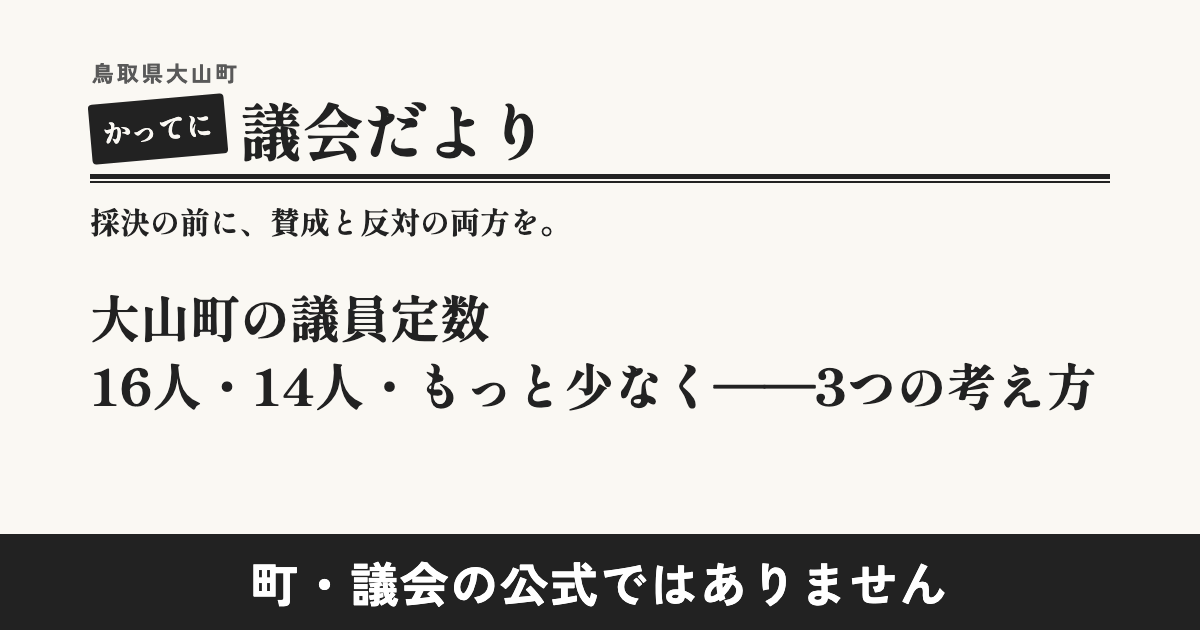
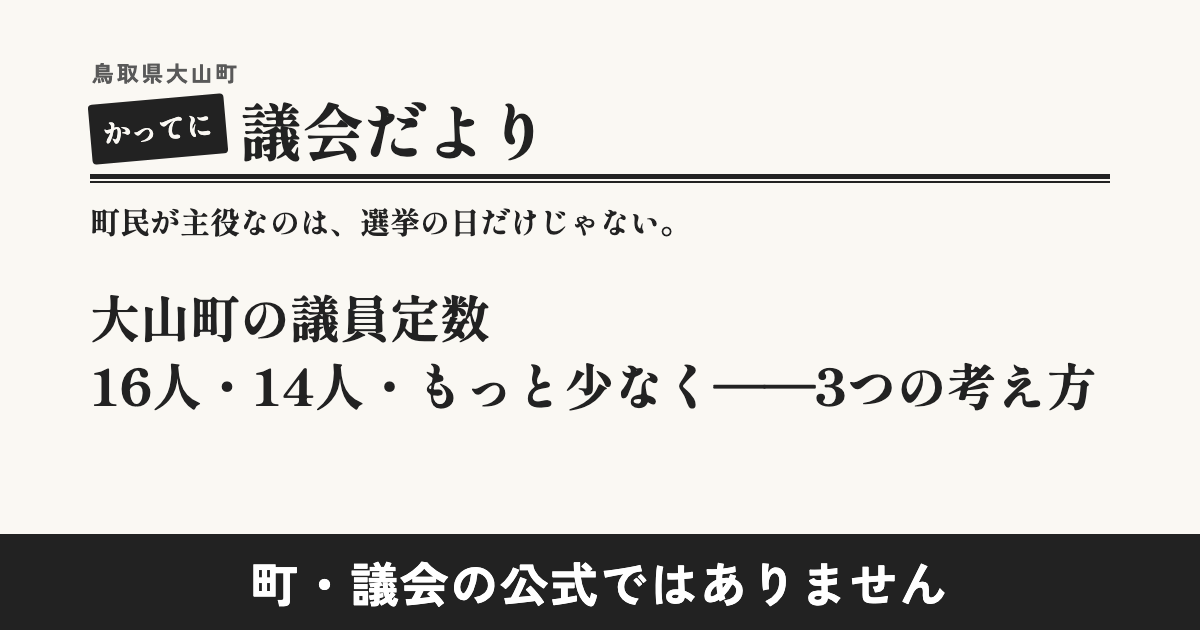
副題を合言葉「町民が主役なのは、選挙の日だけじゃない。」に（トップは大見出しのみ）。OGP画像も更新

Changed region(s): [[0.0617, 0.3317, 0.555, 0.3921]]

diff --git a/src/config/site.ts b/src/config/site.ts
@@ -1,7 +1,7 @@
 // サイト全体の設定。名前とURLはここを直せば全ページに反映される
 export const SITE = {
   name: 'かってに議会だより',
-  subtitle: '採決の前に、賛成と反対の両方を。',
+  subtitle: '町民が主役なのは、選挙の日だけじゃない。',
   place: '鳥取県大山町',
   description:
     '鳥取県大山町議会の注目の議案を、採決の前に賛成・反対の両方から解説し、町民の声を集めます。大山町・大山町議会の公式サイトではありません。',
